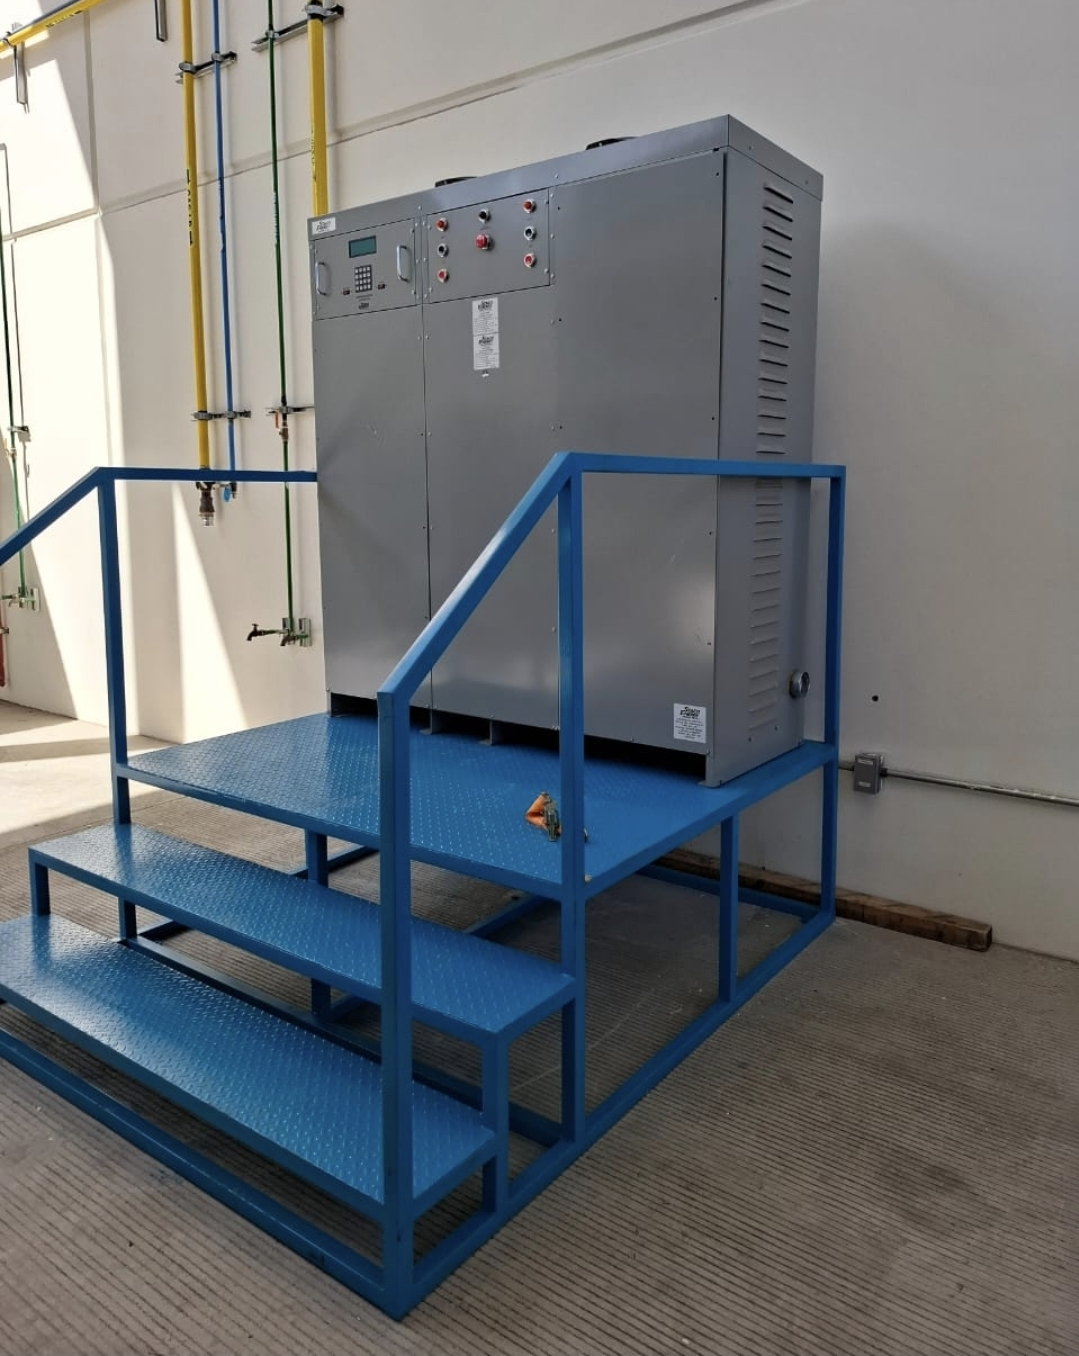
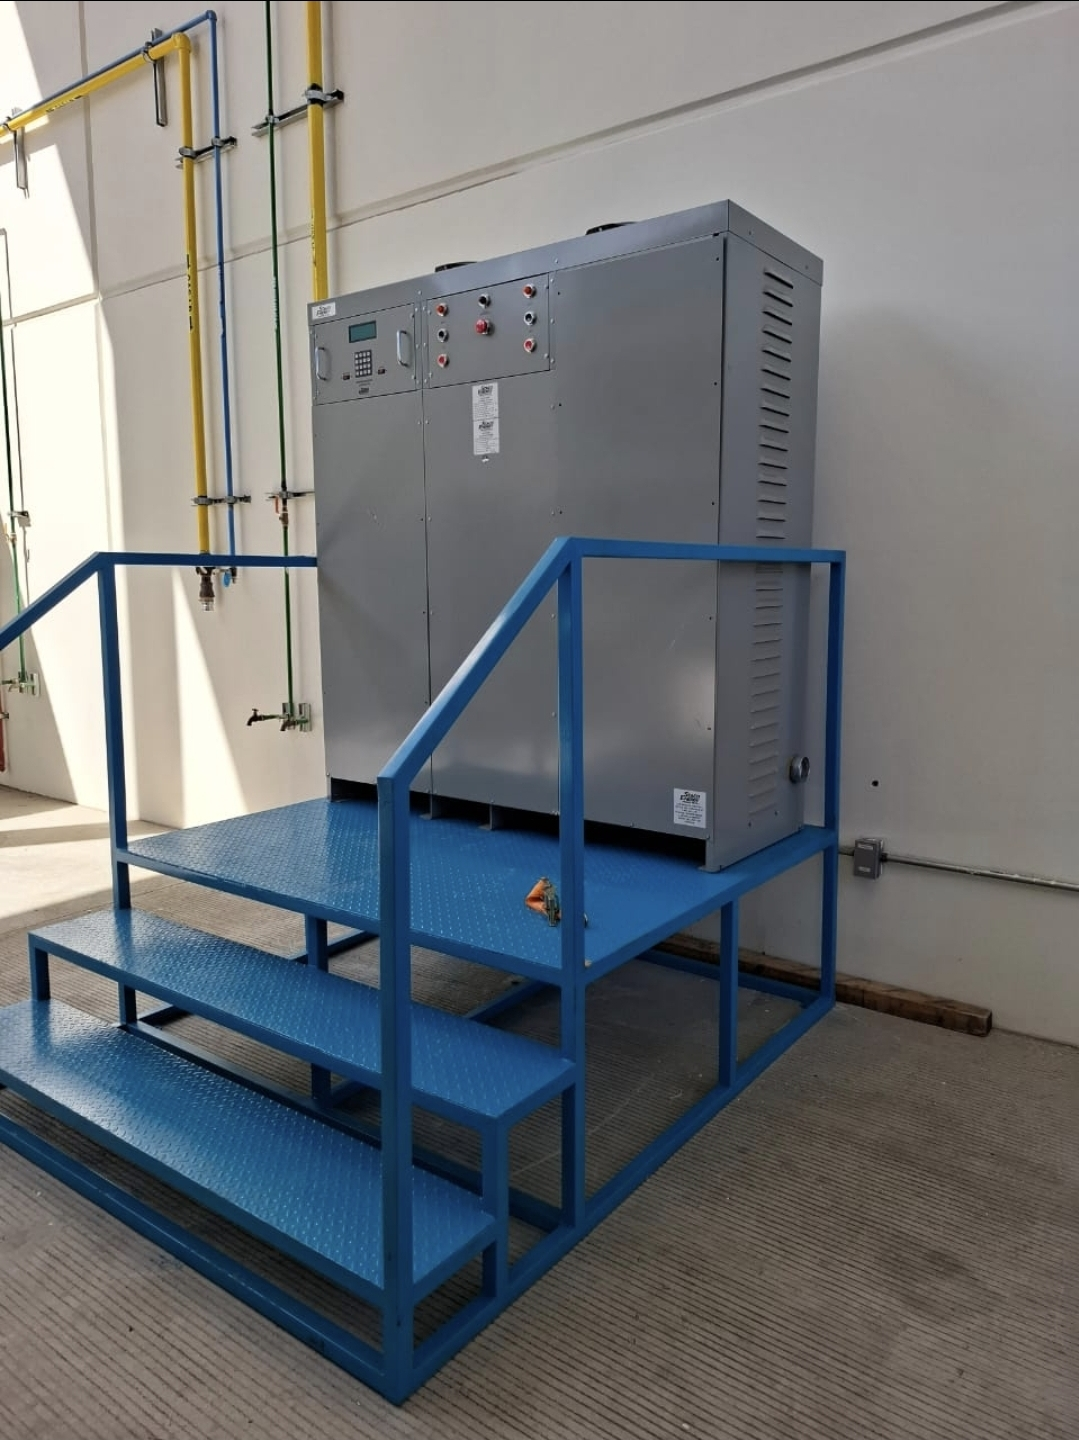
cambios de fotos

diff --git a/app/(root)/page.jsx b/app/(root)/page.jsx
@@ -424,7 +424,7 @@ function PortfolioCard({ item, index, mobile = false }) {
 
 	return (
 		<motion.div
-			className={`group/tes relative z-10 flex w-full flex-col items-start justify-center overflow-hidden bg-[var(--abs-dark)] ${
+			className={`group/tes relative z-10 flex w-full flex-col items-start justify-center overflow-hidden bg-white ${
 				mobile ? "aspect-[1/1.05]" : "aspect-[1.18/1]"
 			}`}
 			initial={{ opacity: 0, x: -200 }}
@@ -433,25 +433,31 @@ function PortfolioCard({ item, index, mobile = false }) {
 			onTouchStart={mobile ? () => setIsTouchActive(true) : undefined}
 			onTouchEnd={mobile ? () => setIsTouchActive(false) : undefined}
 			onTouchCancel={mobile ? () => setIsTouchActive(false) : undefined}>
+			<div aria-hidden="true" className="absolute inset-0 z-0 overflow-hidden bg-white">
+				<motion.div
+					className="absolute inset-y-0 w-28 -skew-x-12 bg-[linear-gradient(90deg,transparent,rgba(219,31,38,0.09),transparent)]"
+					initial={{ left: "-28%" }}
+					animate={{ left: ["-28%", "116%"] }}
+					transition={{ duration: 6.5, repeat: Infinity, ease: "easeInOut" }}
+				/>
+			</div>
 			<Image
 				src={item.image}
 				alt={item.title}
 				fill
 				unoptimized
-				className={`object-cover object-center transition-all duration-500 ease ${
-					showImageOnTouch ? "opacity-100" : "opacity-20 group-hover/tes:opacity-100"
-				}`}
+				className="z-10 object-contain object-center transition-transform duration-500 ease group-hover/tes:scale-[1.01]"
 				sizes="(max-width: 768px) 100vw, 50vw"
 			/>
 			<div
-				className={`absolute inset-0 transition-all duration-500 ease ${
+				className={`absolute inset-0 z-20 transition-all duration-500 ease ${
 					showImageOnTouch
-						? "bg-[color:rgba(17,25,35,0.06)]"
-						: "bg-[color:rgba(5,5,5,0.62)] group-hover/tes:bg-[color:rgba(17,25,35,0.2)] lg:bg-[color:rgba(17,25,35,0.42)]"
+						? "bg-transparent"
+						: "bg-[color:rgba(5,5,5,0.58)] group-hover/tes:bg-transparent lg:bg-[color:rgba(17,25,35,0.42)] lg:group-hover/tes:bg-transparent"
 				}`}
 			/>
 			<div
-				className={`absolute inset-0 z-10 flex flex-col justify-end px-5 pb-6 text-center transition-all duration-500 ease lg:justify-center lg:px-8 lg:pb-0 ${
+				className={`absolute inset-0 z-30 flex flex-col justify-end px-5 pb-6 text-center transition-all duration-500 ease lg:justify-center lg:px-8 lg:pb-0 ${
 					showImageOnTouch ? "opacity-0" : "opacity-100 group-hover/tes:opacity-0"
 				}`}>
 				<h1 className="mb-3 text-[1.5rem] font-bold leading-[1.08] text-white lg:text-[2.05rem]">
@@ -493,10 +499,9 @@ function HomeSectionContent({ mobile = false }) {
 							initial={{ x: -100, opacity: 0 }}
 							whileInView={{ x: 0, opacity: 1 }}
 							transition={{ delay: 0.2, type: "spring" }}>
-							Herrería industrial y estructuras metálicas para proyectos especializados.
-							Fabricamos y montamos soluciones metálicas a la medida para empresas,
-							comercios e industria con seriedad, calidad y cumplimiento en cada
-							proyecto.
+							Diseñamos e implementamos soluciones que optimizan el flujo de trabajo mediante principios de manufactura esbelta, integrando mobiliario industrial, estructuras metálicas y áreas de trabajo adaptadas a cada operación.
+                            Mejoramos la ergonomía, reducimos desperdicios y aumentamos la eficiencia operativa a través de soluciones funcionales y bien ejecutadas.
+
 						</motion.p>
 						<MobileHomeActionButtons />
 					</div>
@@ -536,7 +541,7 @@ function HomeSectionContent({ mobile = false }) {
 												ABS Servicios Industriales
 											</p>
 											<p className="mt-1 text-[11px] font-semibold text-white/80">
-												Herrería industrial · Tijuana, B.C.
+												Tijuana, B.C.
 											</p>
 										</div>
 									</div>
@@ -620,7 +625,7 @@ Mejoramos la ergonomía, reducimos desperdicios y aumentamos la eficiencia opera
 												ABS Servicios Industriales
 											</p>
 											<p className="mt-1 text-sm font-semibold text-white/80">
-												Herrería industrial · Tijuana, B.C.
+												Tijuana, B.C.
 											</p>
 										</div>
 									</div>
@@ -882,7 +887,7 @@ function PortfolioSectionContent({ pageItems, pageIndex = 0, mobile = false }) {
 					</div>
 					<div className="grid w-full grid-cols-1 items-stretch gap-4">
 						{pageItems.map((item, index) => (
-							<PortfolioCard key={item.title} item={item} index={index} mobile />
+							<PortfolioCard key={item.image} item={item} index={index} mobile />
 						))}
 					</div>
 				</div>
@@ -917,7 +922,7 @@ function PortfolioSectionContent({ pageItems, pageIndex = 0, mobile = false }) {
 						pageIndex === 0 ? "" : "my-auto translate-y-4"
 					}`}>
 					{pageItems.map((item, index) => (
-						<PortfolioCard key={item.title} item={item} index={pageIndex * 2 + index} />
+						<PortfolioCard key={item.image} item={item} index={pageIndex * 2 + index} />
 					))}
 				</div>
 			</div>
